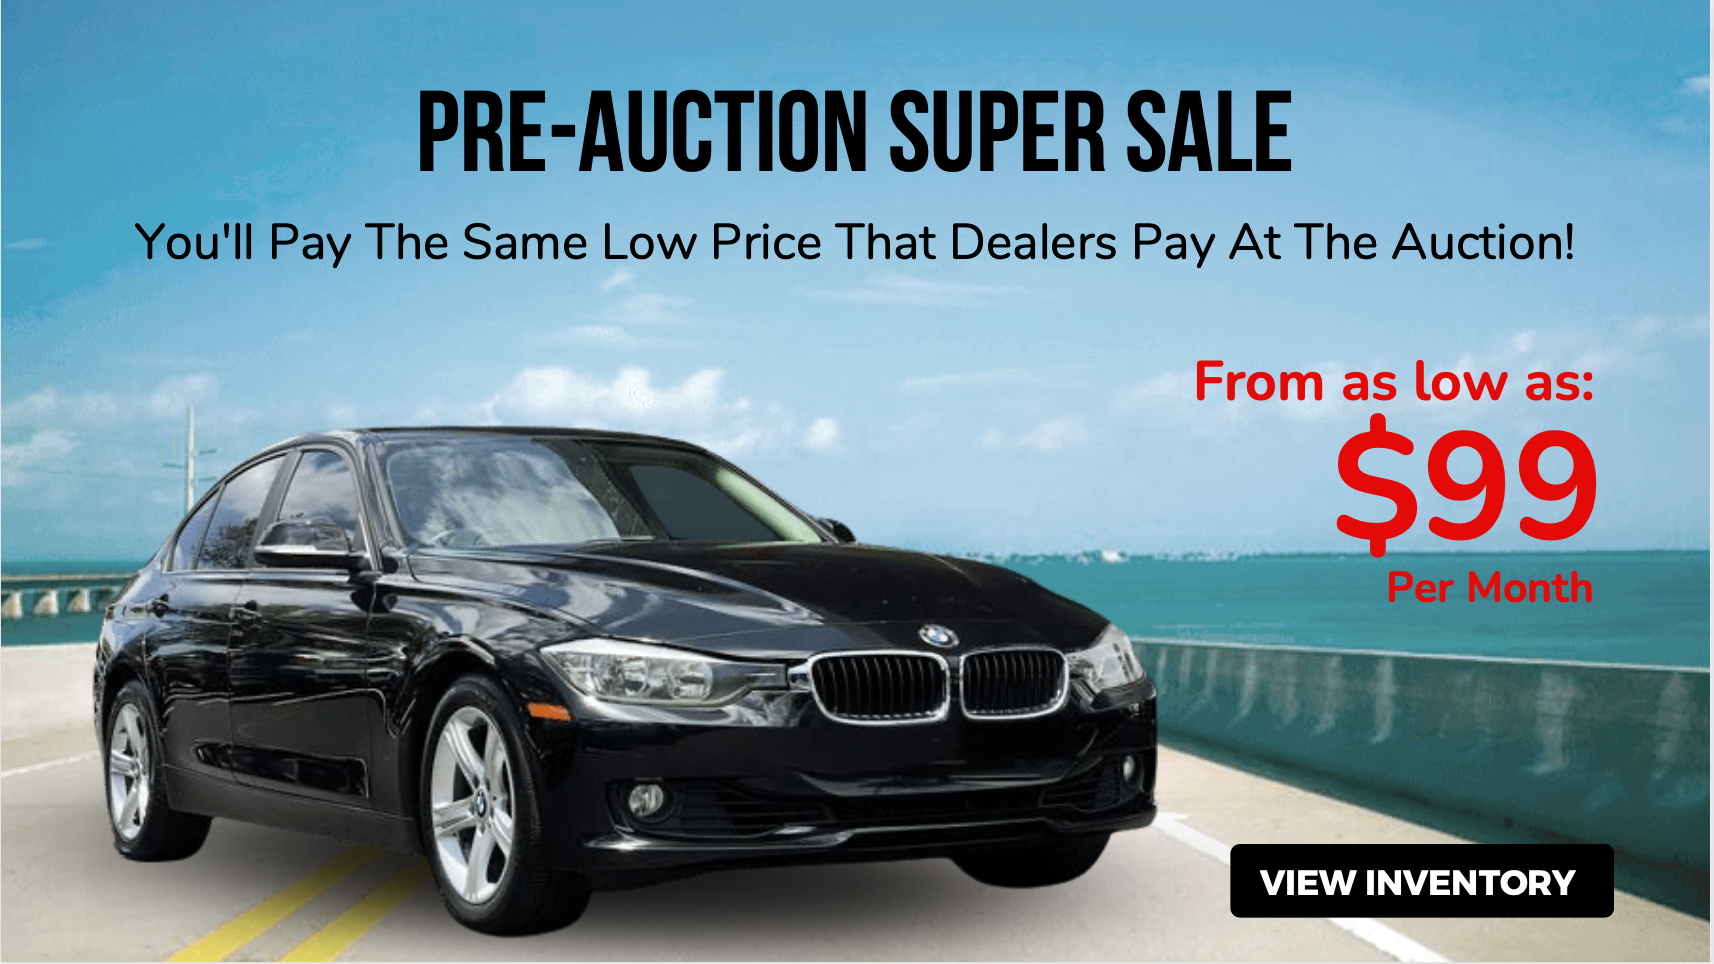
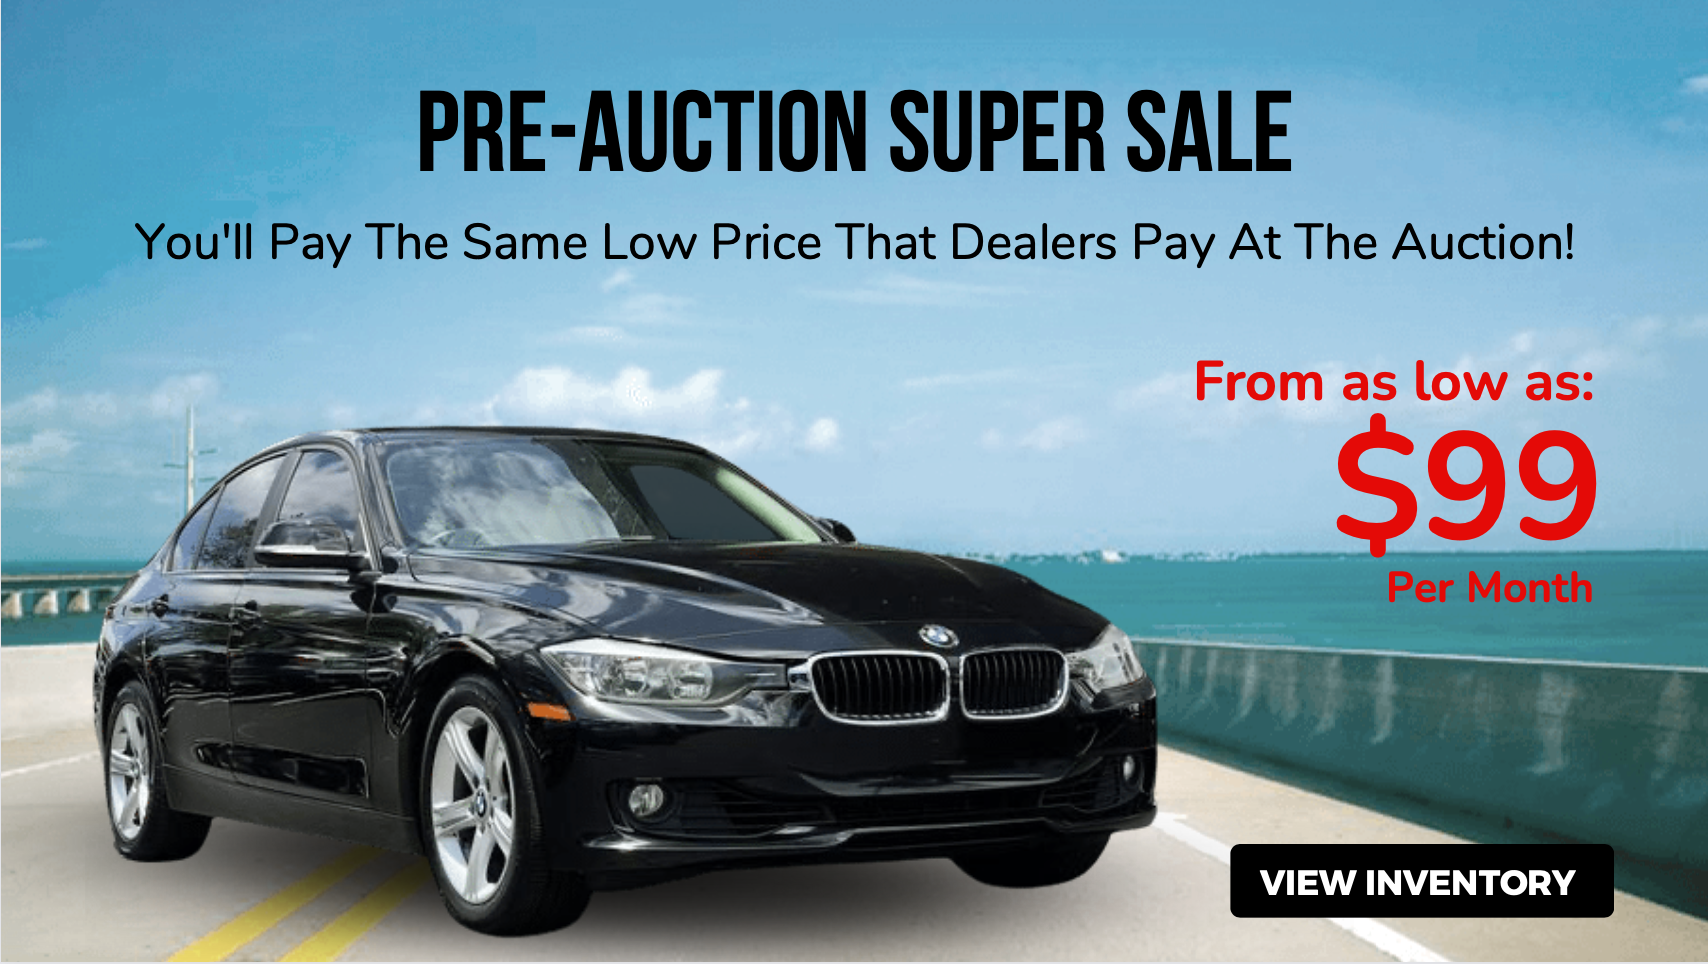
fix(design): Revision design update 6

diff --git a/src/header.html b/src/header.html
@@ -29,16 +29,53 @@
 
       <div class="content">
         <div>
-          <h1>2023 Camry</h1>
-          <h2>Cure for the common commute.</h2>
+          <h1>PRE-Auction Super Sale</h1>
+          <h2>You'll Pay The Same Low Price That Dealers Pay At The Auction!</h2>
         </div>
 
         <div class="pricing">
           <ul>
             <li>
-              $309
+              $99
               <span>
-                month
+                per month
+              </span>
+            </li>
+            <li>
+              36
+              <span>
+                mos
+              </span>
+            </li>
+            <li>
+              $3,608
+              <span>due at signing</span>
+            </li>
+          </ul>
+          <div>
+            <a>Learn more</a>
+            <a>Explore Camry</a>
+          </div>
+        </div>
+      </div>
+    </div>
+
+    <div class="swiper-slide">
+      <div class="overlay"></div>
+      <img src="assets/images/header-3.png" />
+
+      <div class="content">
+        <div>
+          <h1>PRE-Auction Super Sale</h1>
+          <h2>You'll Pay The Same Low Price That Dealers Pay At The Auction!</h2>
+        </div>
+
+        <div class="pricing">
+          <ul>
+            <li>
+              $99
+              <span>
+                per month
               </span>
             </li>
             <li>

diff --git a/src/assets/css/style.css b/src/assets/css/style.css
@@ -123,13 +123,14 @@ body {
   justify-content: space-between;
 }
 .header .swiper-slide .content h1 {
-  color: #fff;
+  color: #000;
   font-size: 64px;
   font-weight: 800;
   text-align: center;
+  text-transform: uppercase;
 }
 .header .swiper-slide .content h2 {
-  color: #fff;
+  color: #000;
   font-size: 32px;
   font-weight: 800;
   text-align: center;
@@ -191,7 +192,7 @@ body {
   transition: all 200ms ease-in-out;
 }
 .locations .grid div:hover .overlay {
-  background: rgba(0, 0, 0, 0.4);
+  background: rgba(0, 0, 0, 0.2);
 }
 .locations .grid div .overlay {
   position: absolute;
@@ -200,7 +201,7 @@ body {
   right: 0;
   bottom: 0;
   z-index: 1;
-  background: rgba(0, 0, 0, 0.75);
+  background: rgba(0, 0, 0, 0.4);
   transition: all 200ms ease-in-out;
   width: 100%;
   height: 100%;
@@ -283,8 +284,9 @@ body {
   padding: 40px 20px;
 }
 .brands img {
-  width: 100%;
+  width: auto;
   max-width: 200px;
+  max-height: 100px;
 }
 .cards {
   position: relative;

diff --git a/src/assets/less/_header.less b/src/assets/less/_header.less
@@ -87,13 +87,14 @@
       flex-direction: column;
       justify-content: space-between;
       h1 {
-        color: #fff;
+        color: #000;
         font-size: 64px;
         font-weight: 800;
         text-align: center;
+        text-transform: uppercase;
       }
       h2 {
-        color: #fff;
+        color: #000;
         font-size: 32px;
         font-weight: 800;
         text-align: center;
